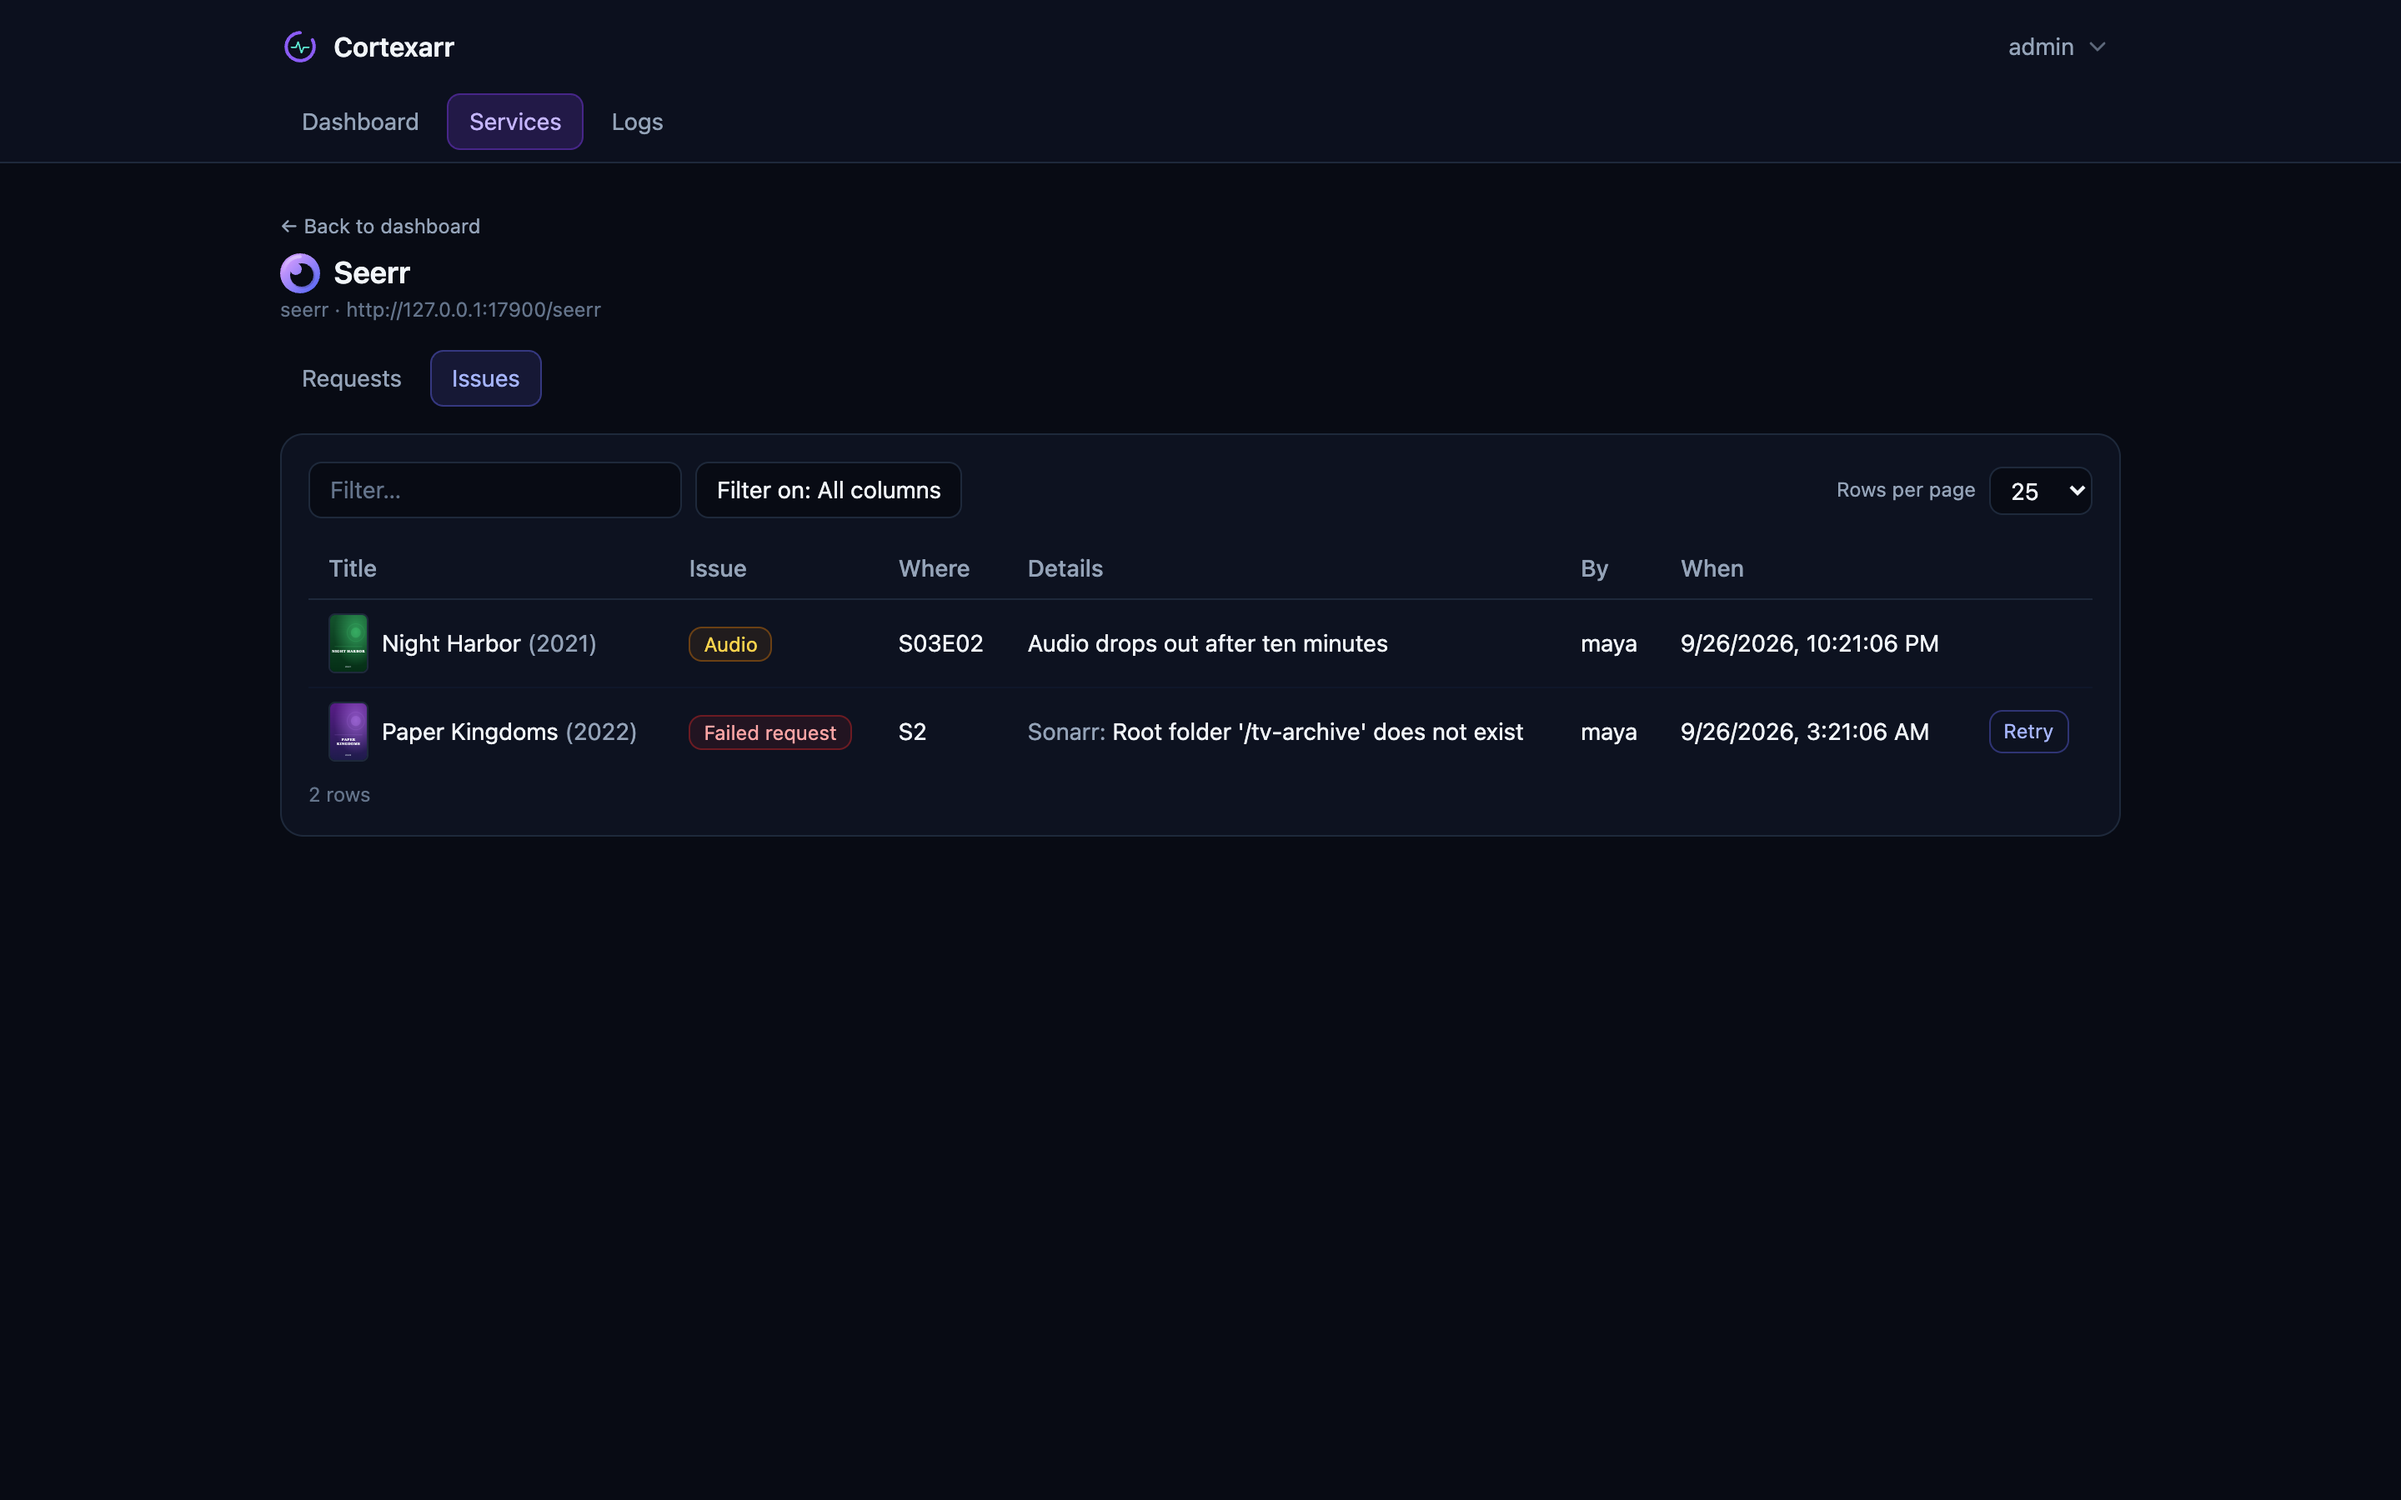
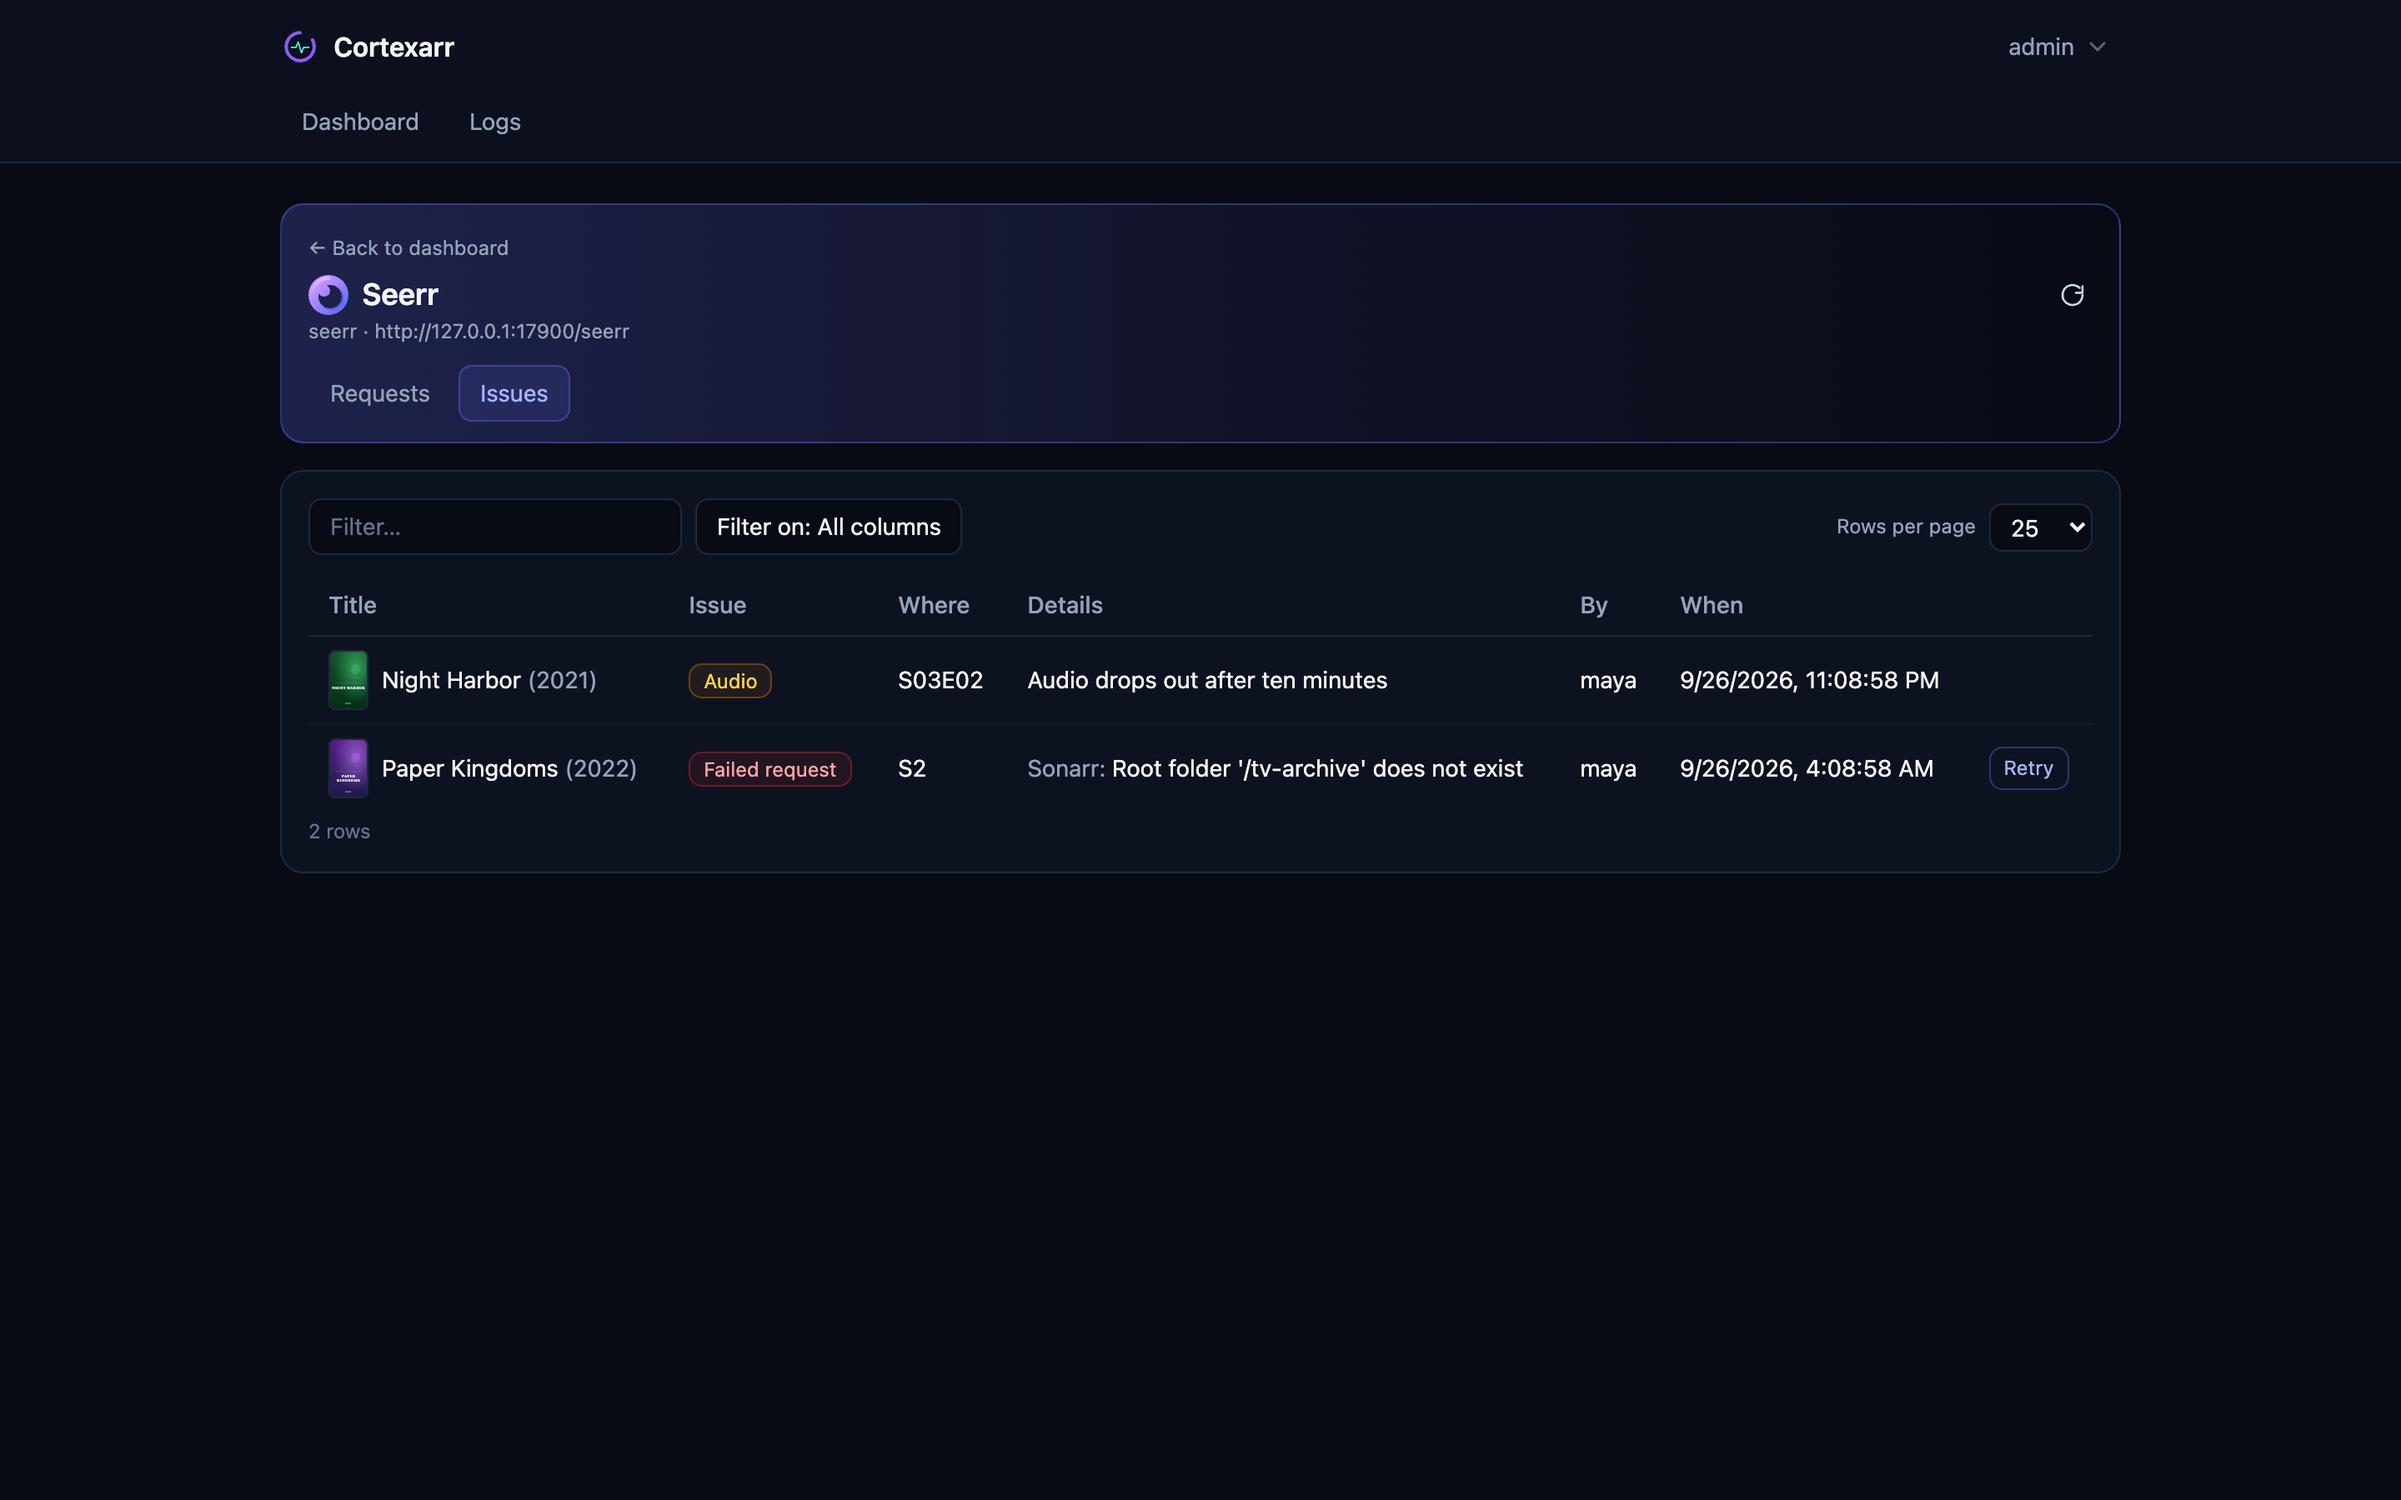
Update the README and retake the screenshots for the user-menu Services and card refresh

Changed region(s): [[0.0938, 0.0622, 0.625, 0.56], [0.6562, 0.3733, 0.875, 0.5289], [0.75, 0.3111, 0.875, 0.3733]]

diff --git a/README.md b/README.md
@@ -28,7 +28,8 @@ leaving the page.
   progress and post-processing stage, and history with failure reasons and
   **Retry**. Pause/resume a download or everything at once.
 - **Dashboard** — requests run full width across the top; below, one card
-  per service with nested cards for whatever needs attention.
+  per service with nested cards for whatever needs attention. Each card can
+  be refreshed on its own or opened in the service's own web UI.
 - **Logs** — one activity feed across every service (filterable by
   pipeline), plus an audit log of every change made in Cortexarr.
 - Per-service health polling with retry/backoff, a connection test that
@@ -112,11 +113,12 @@ remove that too).
 1. Open Cortexarr in a browser and sign in as `admin` with the password the
    installer printed. Change it from the user menu (your username, top
    right).
-2. From the same menu, choose **Add service**. Pick the type, enter its URL
+2. From the same menu, under **Services**, choose **Add service**. Pick the type, enter its URL
    and API key (NZBGet asks for its username and password instead), and
    **Test connection** before saving.
 3. Repeat for each service you run. The Dashboard fills in as they're
-   checked.
+   checked. **Manage services** in the same menu lists them, with test,
+   maintenance mode, and delete.
 
 The [User Guide](docs/USER_GUIDE.md) walks through each page; the
 [Admin Guide](docs/ADMIN_GUIDE.md) covers adding services, maintenance
